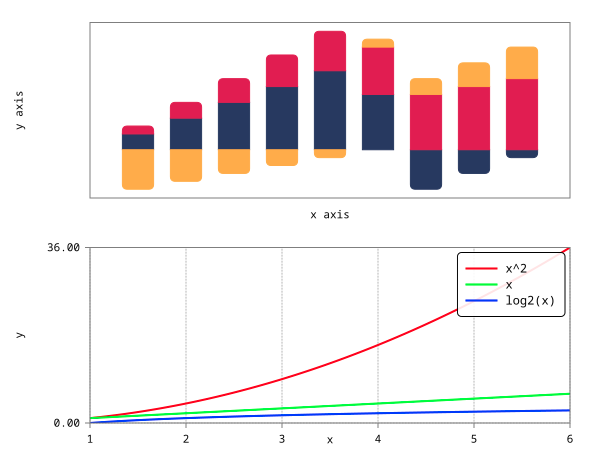
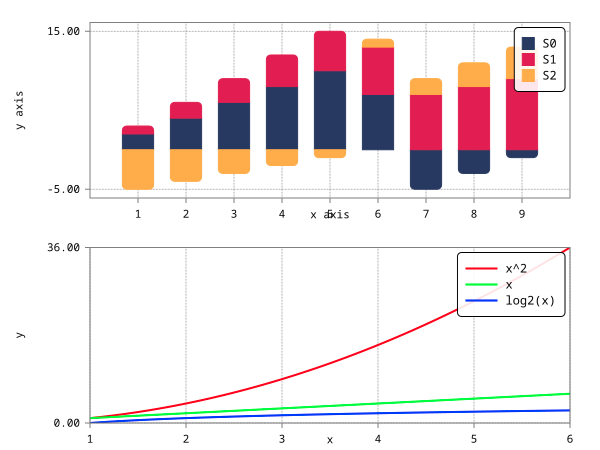
[BarPlot] Add legend

diff --git a/src/BarPlotBase.cpp b/src/BarPlotBase.cpp
@@ -48,6 +48,10 @@ void BarPlotBase::SetBarRelativeWidth(float rel_width) {
 
 void BarPlotBase::AddYMarker(Real marker) { m_y_custom_markers.insert(marker); }
 
+void BarPlotBase::SetLegend(const std::vector<std::string>& labels) {
+  m_legend_labels = labels;
+}
+
 void BarPlotBase::Clear() {
   ClearData();
 
@@ -75,6 +79,7 @@ void BarPlotBase::Build() {
   DrawXAxis();
   DrawYAxis();
   DrawBars();
+  DrawLegend();
   DrawFrame();
 }
 
@@ -417,4 +422,68 @@ void BarPlotBase::DrawTitle() {
   svg::SetAttribute(node_ptr, "text-anchor", "middle");
 }
 
+void BarPlotBase::DrawLegend() {
+  if (m_legend_labels.empty()) {
+    return;
+  }
+
+  static constexpr float font_size = 12.0f;
+  static constexpr float box_margin_px = 5.0f;
+  static constexpr float font_em = font_size / 12.0f;
+  static constexpr float font_margin_em = 0.5f * font_em;
+  static constexpr float rect_length_em = 3.0f * font_em / 4.0f;
+  static constexpr float rect_length_px = fonts::EmToPx(rect_length_em);
+  static constexpr float spacing_em = 0.5f * font_em;
+
+  // Calculate sizes
+  float max_font_width_em = 0;
+  for (const auto& label : m_legend_labels) {
+    const auto [w, _] = fonts::CalculateTextSize(label, TEXT_FONT, font_size);
+    max_font_width_em = std::max(max_font_width_em, w);
+  }
+
+  const std::size_t num_labels = std::min(m_legend_labels.size(), m_num_bars);
+  const float box_w = fonts::EmToPx(2 * font_margin_em + rect_length_em +
+                                    spacing_em + max_font_width_em);
+  const float box_x = (m_frame_x + m_frame_w) - box_margin_px - box_w;
+  const float box_y = m_frame_y + box_margin_px;
+  const float box_h = fonts::EmToPx(static_cast<float>(num_labels) * font_em +
+                                    2 * font_margin_em);
+
+  svg::Rect box_rect = {
+      .x = box_x,
+      .y = box_y,
+      .width = box_w,
+      .height = box_h,
+  };
+  auto box_rect_node = m_svg.DrawRect(box_rect);
+  svg::SetAttribute(box_rect_node, "fill", "white");
+  svg::SetAttribute(box_rect_node, "fill-opacity", "0.9");
+  svg::SetAttribute(box_rect_node, "rx", "4", "px");
+  svg::SetAttribute(box_rect_node, "ry", "4", "px");
+
+  for (std::size_t i = 0; i < num_labels; ++i) {
+    const std::string& label = m_legend_labels[i];
+    const Color& color = m_y_data[i].color;
+    const float x = box_x + fonts::EmToPx(font_margin_em);
+    const float y = box_y + fonts::EmToPx(font_em / 2 + font_margin_em +
+                                          static_cast<float>(i) * font_em);
+
+    svg::Rect color_rect{.x = x,
+                         .y = y - (rect_length_px / 2.0f),
+                         .width = rect_length_px,
+                         .height = rect_length_px,
+                         .stroke_color = color,
+                         .stroke_opacity = 1.0f,
+                         .stroke_width = 1.0f,
+                         .fill_color = color,
+                         .fill_opacity = 1.0f,
+                         .fill_transparent = false};
+    m_svg.DrawRect(color_rect);
+
+    const float text_x = x + fonts::EmToPx(rect_length_em + spacing_em);
+    const float text_y = y + fonts::EmToPx(font_em / 4);
+    m_svg.DrawText(svg::Text{label, text_x, text_y, font_size, TEXT_FONT});
+  }
+}
 }  // namespace plotcpp

diff --git a/test/figure_tester.cpp b/test/figure_tester.cpp
@@ -126,6 +126,8 @@ void GroupPlot() {
   p0.Plot({-5, -4, -3, -2, -1, 1, 2, 3, 4}, {254, 177, 57});
   p0.SetXLabel("x axis");
   p0.SetYLabel("y axis");
+  p0.SetGridEnable(true);
+  p0.SetLegend({"S0", "S1", "S2"});
 
   p1.SetHold(true);
   const auto x1 = plotcpp::ranges::MakeRange<Real>(1, 6, 0.01);
@@ -158,6 +160,7 @@ void BarPlot() {
   plot.SetXLabel("x axis");
   plot.SetYLabel("y axis");
   plot.SetGridEnable(true);
+  plot.SetLegend({"S0", "S1", "S2"});
 
   plot.Build();
   plot.Save(BAR_PLOT_FILENAME);

diff --git a/include/BarPlotBase.hpp b/include/BarPlotBase.hpp
@@ -47,6 +47,8 @@ class BarPlotBase : public Figure {
 
   void AddYMarker(Real marker);
 
+  void SetLegend(const std::vector<std::string>& labels);
+
  protected:
   explicit BarPlotBase() = default;
 
@@ -132,6 +134,8 @@ class BarPlotBase : public Figure {
   void DrawYAxis();
   void DrawXLabel();
   void DrawYLabel();
+
+  void DrawLegend();
 };
 
 }  // namespace plotcpp

diff --git a/src/fonts.cpp b/src/fonts.cpp
@@ -31,8 +31,6 @@ static const std::map<std::string, FontData> FONT_DATA = {
     {"monospace", {.width_em = 0.46f}},
 };
 
-float EmToPx(float em) { return em * 16.0f; }
-
 std::pair<float, float> CalculateTextSize(const std::string& text,
                                           const std::string& font, float size) {
   const auto it = FONT_DATA.find(font);

diff --git a/include/Plot2D.hpp b/include/Plot2D.hpp
@@ -275,7 +275,6 @@ class Plot2D : public Figure {
   std::set<Real> m_y_custom_markers;
 
   bool m_grid_enable = false;
-  bool m_legend_enable = false;
 
   /** Translate the (x, y) coordinates from the plot function to (x, y) in the
    * svg image */

diff --git a/include/fonts.hpp b/include/fonts.hpp
@@ -31,7 +31,7 @@ struct FontData {
 };
 
 /** Convert em to px */
-float EmToPx(float em);
+constexpr float EmToPx(float em) { return em * 16.0f; };
 
 /**
  * @brief Calculate an approximation of the bounding box of a text in em.
